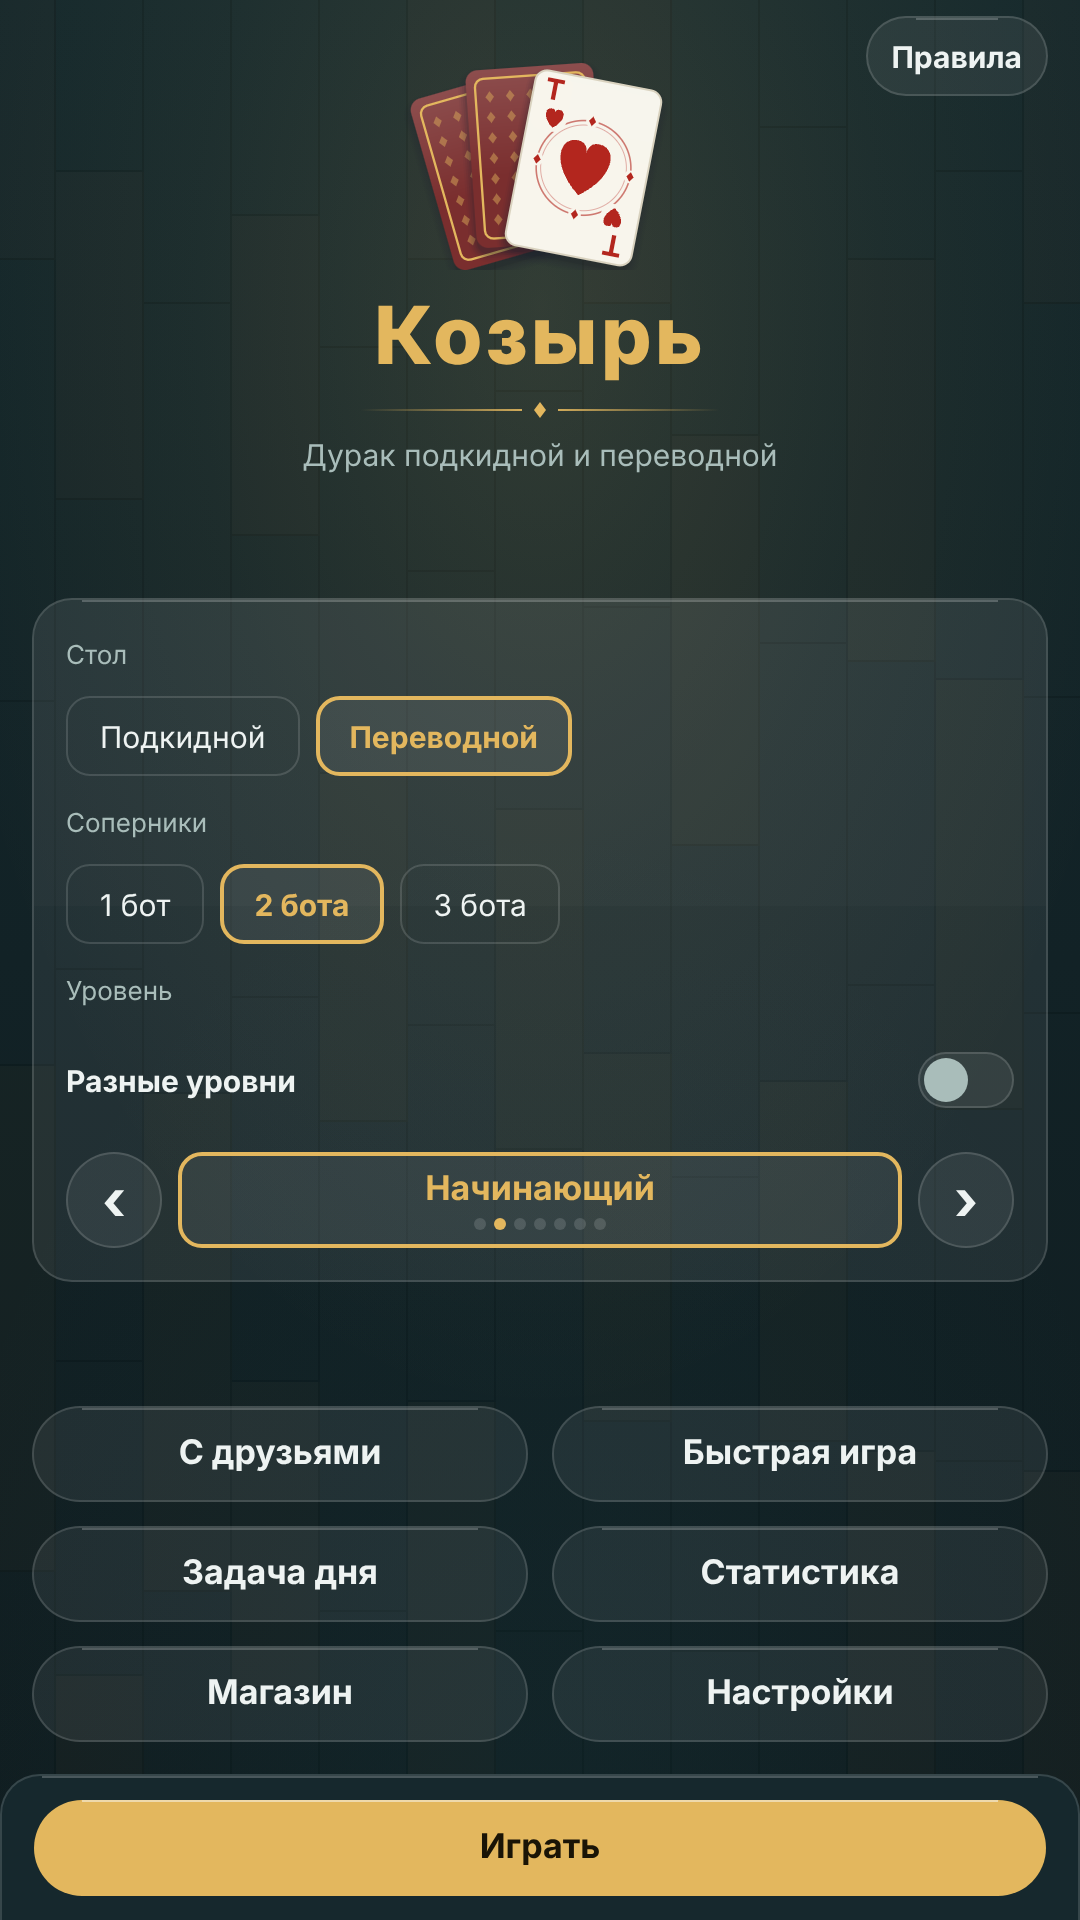
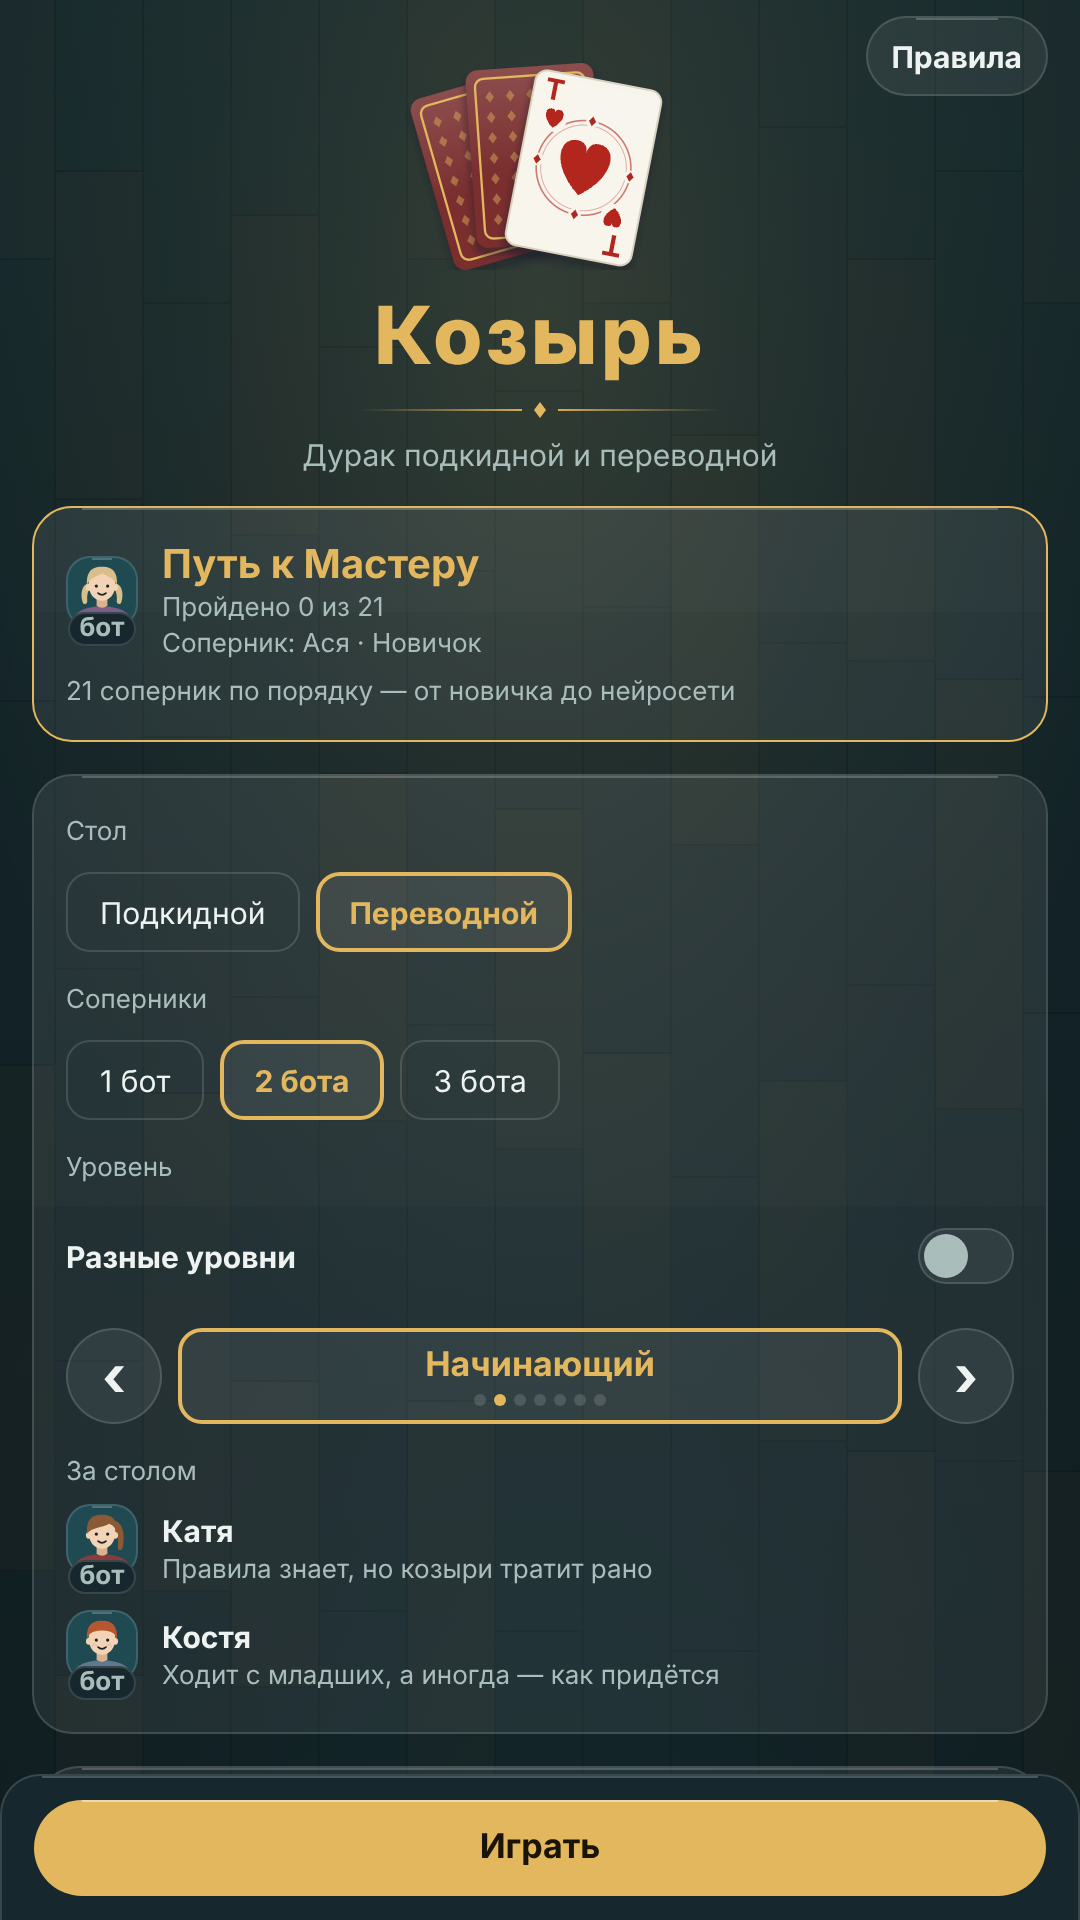
Снимки магазина с экраном «Путь к Мастеру»
Два новых снимка (11-path, 12-collection) после матча с Асей; страницы сайта
ставят их первыми; остальные снимки пересняты на 0.13.0.

Claude-Session: https://claude.ai/code/session_01FnRrhyAM6QeBstQ8aVsD1M

diff --git a/tools/store/shots.ts b/tools/store/shots.ts
@@ -203,6 +203,28 @@ try {
   // 7. настройки
   await p.getByTestId('settings-open').click();
   await shot(p, '07-settings');
+  await p.getByTestId('settings-back').click();
+  await p.getByTestId('menu').waitFor({ timeout: 5000 });
+
+  // 11–12. «Путь к Мастеру» (docs/specs/2026-11-path.md): выиграть матч с Асей, затем путь и коллекция
+  await p.getByTestId('path-open').click();
+  await p.getByTestId('path').waitFor({ timeout: 5000 });
+  await p.getByTestId('path-variant-podkidnoy').click();
+  await p.getByTestId('path-play').click();
+  await p.getByTestId('game').waitFor({ timeout: 10000 });
+  for (let g = 0; g < 5; g++) {
+    await until(p, async () => visible(p, 'result'));
+    await p.getByTestId('result-match').filter({ hasNotText: T.result.counting }).waitFor({ timeout: 10000 }).catch(() => {});
+    if (await visible(p, 'path-next')) break;
+    if (!(await visible(p, 'again'))) break;
+    await p.getByTestId('again').click();
+    await p.waitForTimeout(400);
+  }
+  await p.getByTestId('result-menu').click();
+  await p.getByTestId('path').waitFor({ timeout: 5000 });
+  await shot(p, '11-path');
+  await p.getByTestId('path-tab-collection').click();
+  await shot(p, '12-collection');
 } finally {
   await browser.close();
   web.stop();

diff --git a/store/site/page.ru.md b/store/site/page.ru.md
@@ -4,11 +4,17 @@ title: Козырь — дурак подкидной и переводной
 description: "Дурак подкидной и переводной на Android: с ботами без интернета и онлайн — стол с родными по ссылке и быструю игру. Колоду можно проверить после партии, бот не видит ваших карт."
 kind: Карточная игра
 status: dev
-lead: Честная колода, бот, который не подглядывает, и реклама только между партиями.
+lead: Путь через 21 соперника к нейросети, честная колода, бот, который не подглядывает, и реклама только между партиями.
 icon: graphics/icon-512.png
 feature: graphics/feature-1024x500.png
 og: graphics/og-1200x630.png
 shots:
+  - file: screenshots/ru/11-path.png
+    caption: Путь к Мастеру
+    alt: "Путь к Мастеру: 21 соперник по порядку, текущий соперник с портретом, подписью «бот» и счётом матча, ступени по уровням"
+  - file: screenshots/ru/12-collection.png
+    caption: Коллекция соперников
+    alt: "Коллекция: портреты всех 21 соперника, у пройденных — золотая рамка и дата победы"
   - file: screenshots/ru/01-game.png
     caption: Партия с ботом
     alt: "Подкидной против бота: карты на столе, ваша рука снизу, строка подсказки и кнопки под большим пальцем"
@@ -36,6 +42,7 @@ shots:
 card:
   text: Дурак подкидной и переводной на двоих, троих и четверых. С ботами — без интернета, онлайн — с родными за одним столом по ссылке и с соперником по рейтингу, без регистрации.
   points:
+    - "Путь к Мастеру: 21 соперник по порядку, в финале — нейросеть"
     - "Честная колода: партию по сети можно проверить после игры"
     - Бот видит только свои карты; ботов под видом людей нет
     - Реклама только между партиями, отключается одной покупкой

diff --git a/store/site/page.en.md b/store/site/page.en.md
@@ -4,11 +4,17 @@ title: Kozyr — Durak, the Russian card game
 description: "Podkidnoy and perevodnoy durak for Android: against bots offline and online — a table with family by link and a quick match. Online, you can check the deck after the game; the bot never sees your cards."
 kind: Card game
 status: dev
-lead: An honest deck, a bot that never peeks, and ads only between games.
+lead: A road through 21 opponents to a neural net, an honest deck, a bot that never peeks, and ads only between games.
 icon: graphics/icon-512.png
 feature: graphics/feature-1024x500.png
 og: graphics/og-1200x630.png
 shots:
+  - file: screenshots/ru/11-path.png
+    caption: The road to the Master
+    alt: "The road to the Master: 21 opponents in order, the current one with portrait, «bot» label and match score, steps by level"
+  - file: screenshots/ru/12-collection.png
+    caption: The collection
+    alt: "Collection: portraits of all 21 opponents, the beaten ones in a gold frame with the date"
   - file: screenshots/ru/01-game.png
     caption: A game against a bot
     alt: "Podkidnoy against a bot: cards on the table, your hand below, the hint line and buttons under the thumb"
@@ -36,6 +42,7 @@ shots:
 card:
   text: Durak in its podkidnoy and perevodnoy forms for two to four players. Against bots offline; online with family at one table by link or with an opponent of your rating, no sign-up. The game is in Russian.
   points:
+    - "The road to the Master: 21 opponents in order, a neural net at the end"
     - "An honest deck: online games can be checked afterwards"
     - The bot sees only its own cards; no bots posing as people
     - Ads only between games, removed with one purchase

diff --git a/store/README.md b/store/README.md
@@ -8,7 +8,7 @@
 | [`listing.ru.md`](listing.ru.md) | название, краткое и полное описание, «Что нового» — копируются в консоль RuStore как есть |
 | [`forms.md`](forms.md) | анкеты RuStore: возраст, данные, разрешения Android, товары RuStore Pay |
 | `graphics/` | значок 512, баннер 1024 × 500, картинка для ссылок 1200 × 630 |
-| `screenshots/ru/` | снимки 1080 × 1920 (портрет): партия, «почему нельзя», итог, переводной, вышедшие карты, меню, настройки, разбор на столе, задача дня, подсказка |
+| `screenshots/ru/` | снимки 1080 × 1920 (портрет): партия, «почему нельзя», итог, переводной, вышедшие карты, меню, настройки, разбор на столе, задача дня, подсказка, «Путь к Мастеру» и коллекция |
 | `video/kozyr-ru.mp4` | ролик 1920 × 1080, около минуты, без звука — **в git не кладётся**: его загружают на видеохостинг, ссылку вписывают в карточку |
 | [`site/page.ru.md`](site/page.ru.md), [`site/page.en.md`](site/page.en.md) | страница игры на gornitsa.games (устав, `docs/08-publishing.md`, «Сайт») |
 
